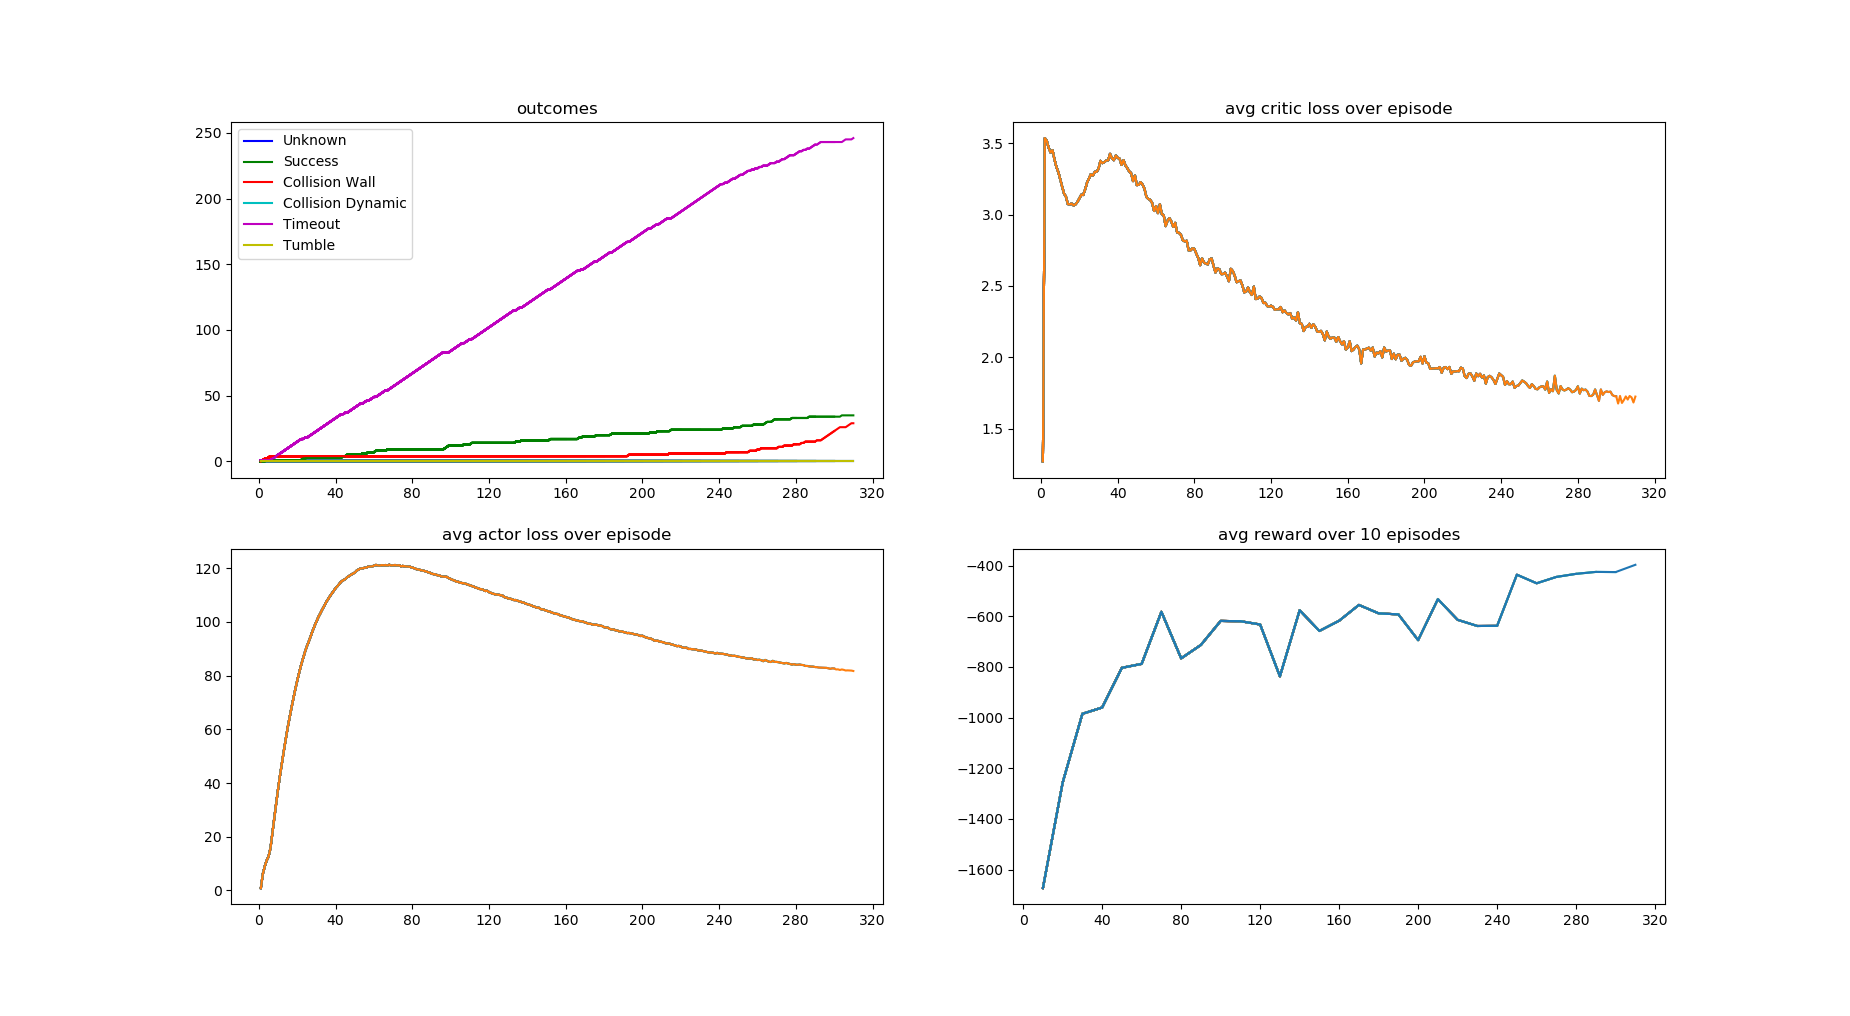
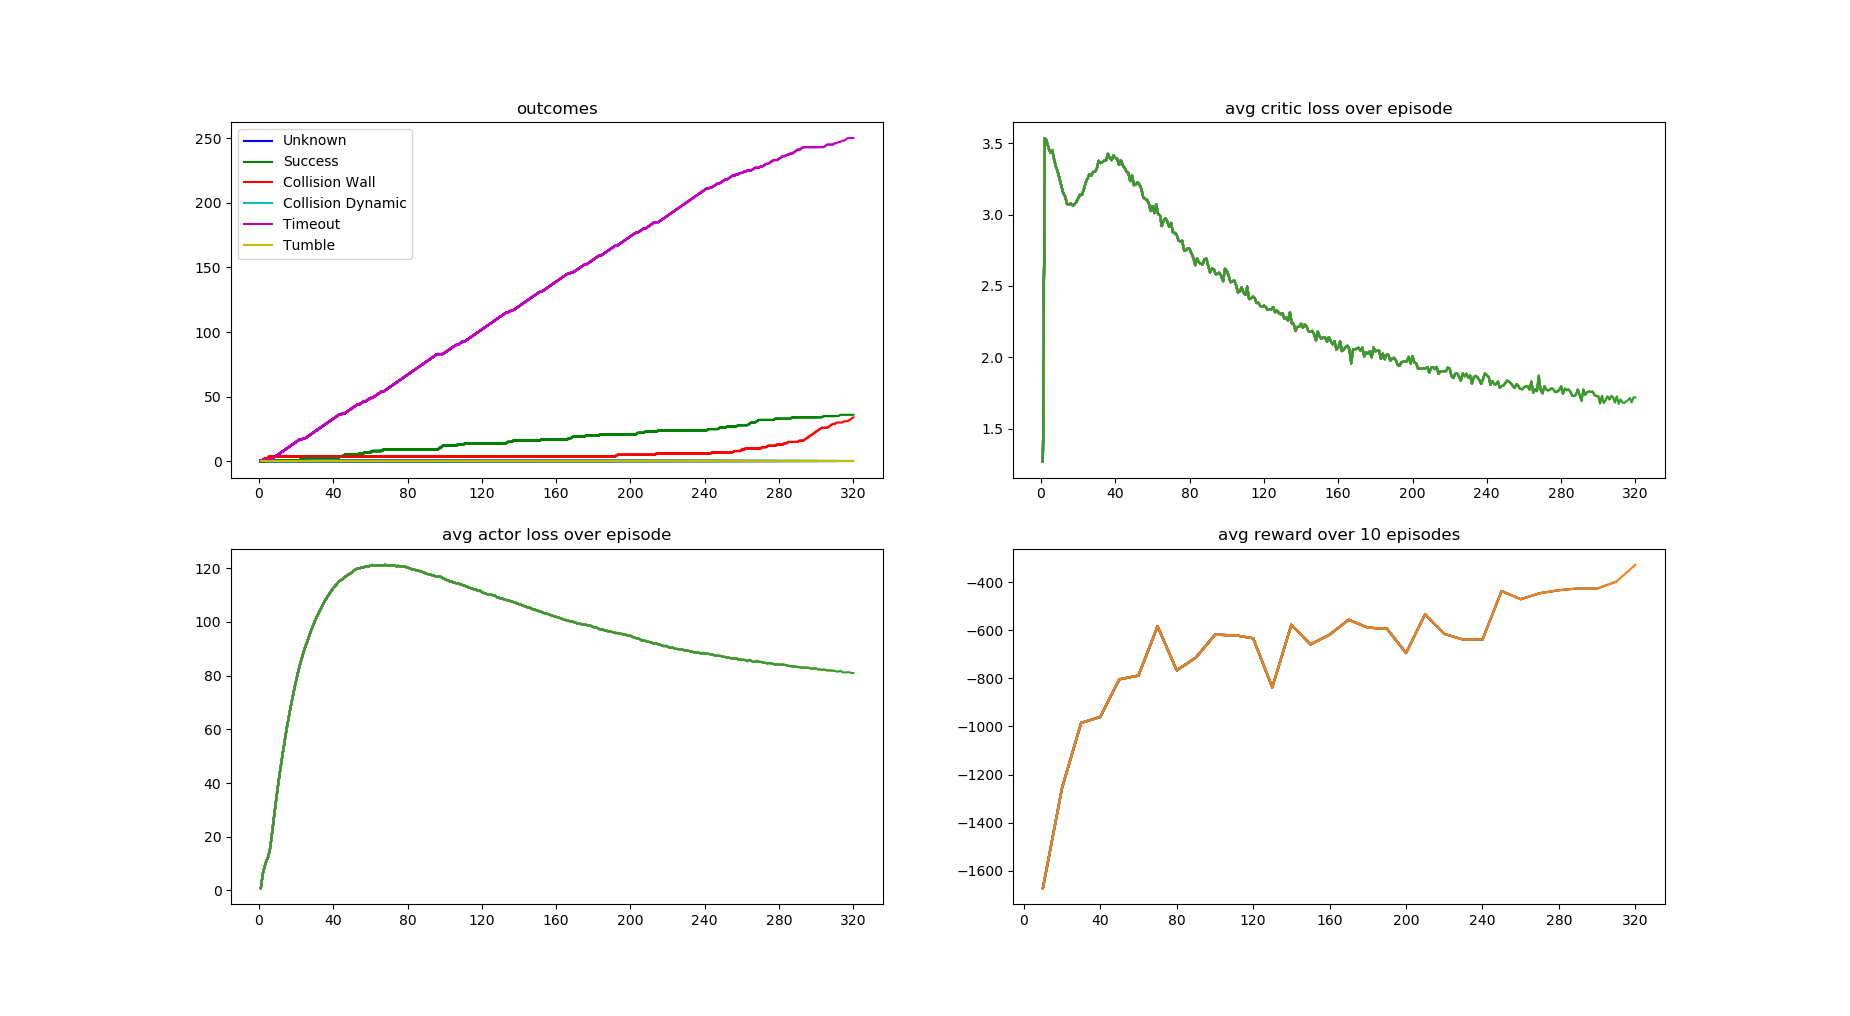
Modified the reward function B, to avoid timeouts

diff --git a/src/turtlebot3_drl/turtlebot3_drl/drl_environment/reward.py b/src/turtlebot3_drl/turtlebot3_drl/drl_environment/reward.py
@@ -45,7 +45,7 @@ def get_reward_B(succeed, action_linear, action_angular, goal_dist, goal_angle, 
     global prev_action_angular
 
     # --- TUNABLE WEIGHTS FOR V3 ---
-    w_smooth = 1.0
+    w_smooth = 0.1          # Reduced from 1.0: was punishing corrective turns too harshly
     w_ttc = 1.0
     T_safe = 1.0  # seconds
     # ------------------------------
@@ -105,9 +105,11 @@ def get_reward_B(succeed, action_linear, action_angular, goal_dist, goal_angle, 
     reward = r_step + r_same_state + r_orientation + r_distance + r_smooth + r_ttc
 
     if succeed == SUCCESS:
-        reward += 10.0
+        reward += 100.0
     elif succeed == COLLISION_OBSTACLE or succeed == COLLISION_WALL:
-        reward -= 0.75
+        reward -= 50.00
+    elif succeed == TIMEOUT:
+        reward -= 25.00
 
     return float(reward)
 
